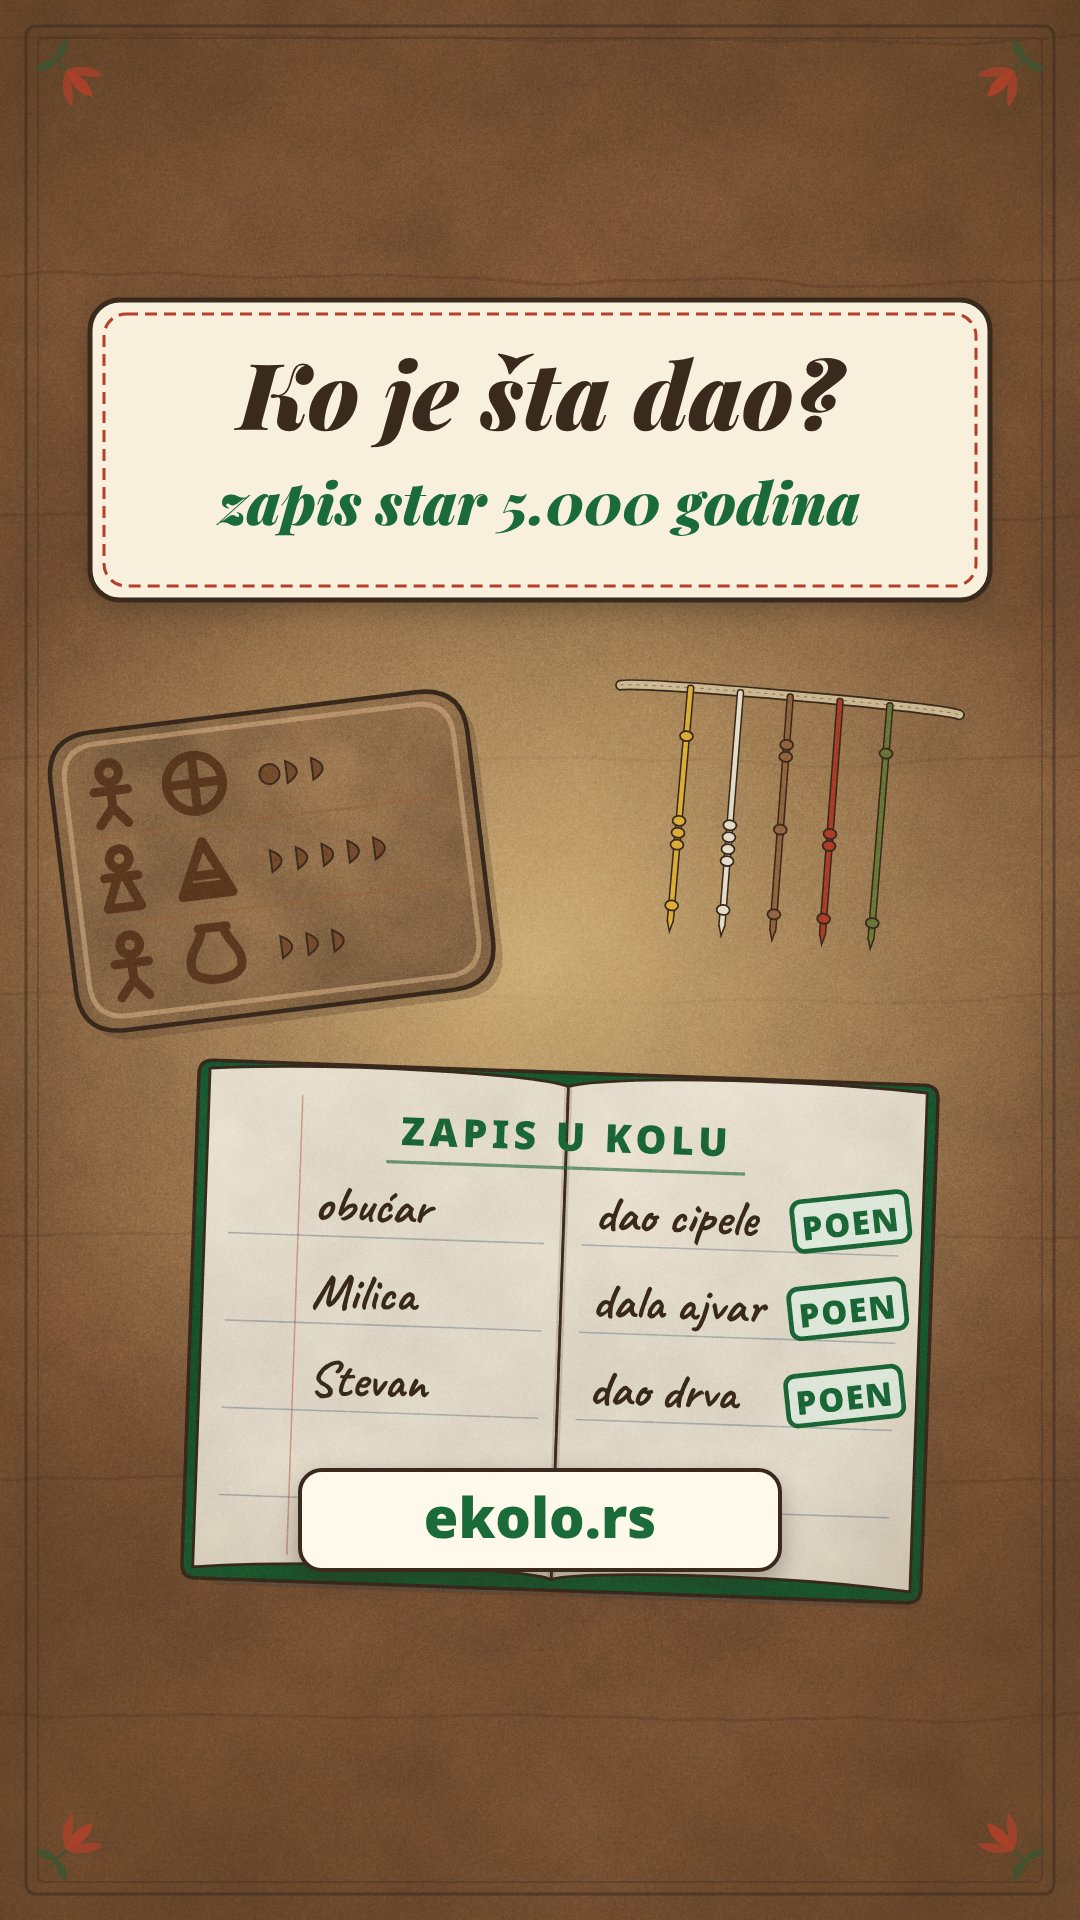
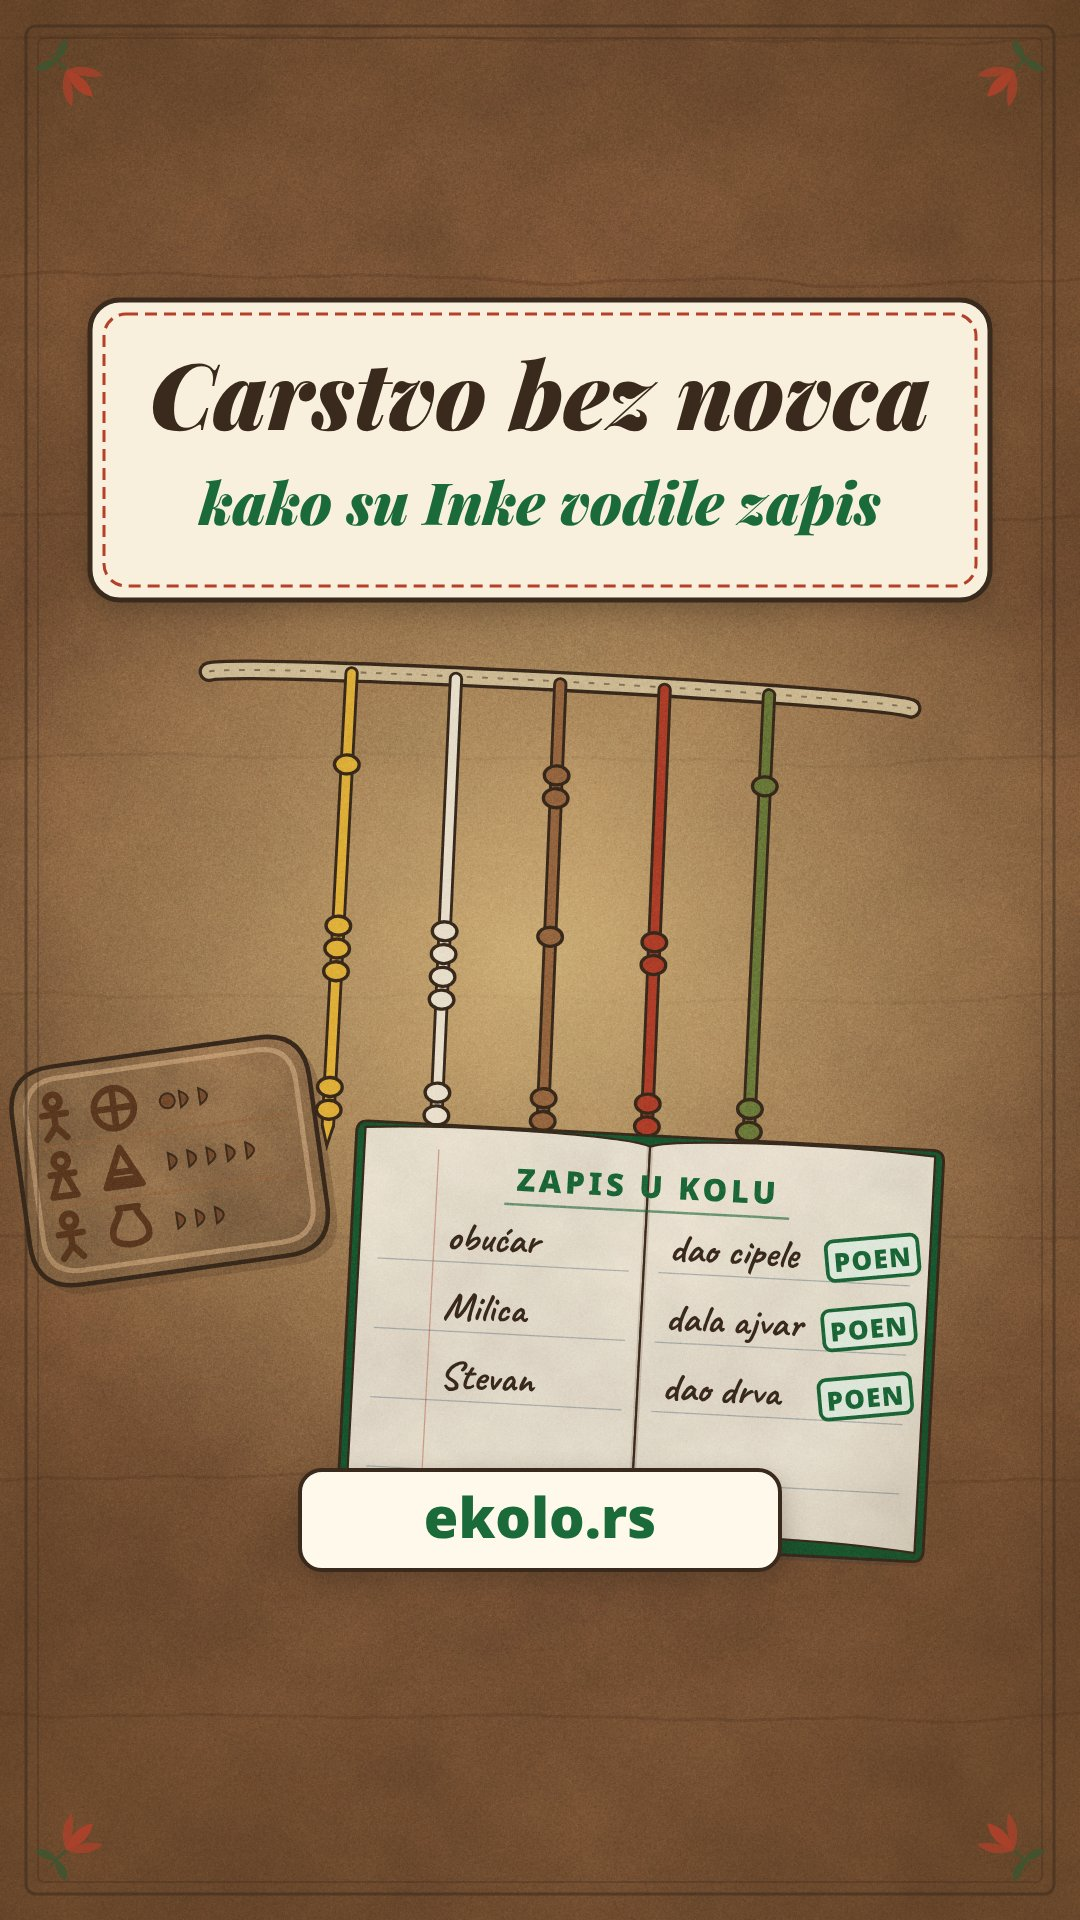
Video 17: naslovna „Carstvo bez novca / kako su Inke vodile zapis“, TikTok opis prati naslovnu (vlasnik)
Claude-Session: https://claude.ai/code/session_01Va1h1n6nXWcMqtSVBEQDo4

Changed region(s): [[0.0, 0.3438, 0.8861, 0.8438], [0.1222, 0.1875, 0.8556, 0.2812]]

diff --git a/video/kolo-stari-zapis/src/Naslovna.tsx b/video/kolo-stari-zapis/src/Naslovna.tsx
@@ -1,4 +1,5 @@
-// Naslovna (cover) za mreže: glinena pločica, kipu i zajednička sveska na stolu, krupan naslov.
+// Naslovna (cover) za mreže: „Carstvo bez novca / kako su Inke vodile zapis“ (vlasnik, 07.10.2026);
+// krupno kipu, uz njega glinena pločica i zajednička sveska na stolu.
 // Sav tekst je u sredini (y 300–1620), jer Instagram mrežu seče na 4:5.
 import React from "react";
 import { AbsoluteFill, Img, staticFile } from "remotion";
@@ -24,13 +25,13 @@ export const Naslovna: React.FC = () => (
       <g transform="translate(540 960)">
         <circle r={620} fill="url(#toplaSvetlost)" />
       </g>
-      <g transform="translate(290 1010) rotate(-7)">
-        <Plocica w={420} h={300} redovi={REDOVI_1} />
+      <g transform="translate(185 1270) rotate(-8)">
+        <Plocica w={300} h={220} redovi={REDOVI_1} />
       </g>
-      <g transform="translate(790 700) scale(0.5) rotate(5)">
-        <Kipu konci={KONCI} x0={-300} x1={300} duzina={460} />
+      <g transform="translate(560 690) scale(0.95) rotate(3)">
+        <Kipu konci={KONCI} x0={-330} x1={330} duzina={470} />
       </g>
-      <g transform="translate(560 1330) scale(0.78) rotate(2)">
+      <g transform="translate(640 1340) scale(0.62) rotate(3)">
         <Sveska kolo={1} zig={[1, 1, 1]} />
       </g>
     </Kadar>
@@ -41,10 +42,10 @@ export const Naslovna: React.FC = () => (
       <rect x={90} y={300} width={900} height={300} rx={30} fill={P.krem} stroke={P.mastilo} strokeWidth={5} />
       <rect x={104} y={314} width={872} height={272} rx={22} fill="none" stroke={P.vez} strokeWidth={3} strokeDasharray="12 7" />
       <text x={540} y={430} textAnchor="middle" fontFamily={NASLOV} fontStyle="italic" fontWeight={900} fontSize={92} fill={P.mastilo}>
-        Ko je šta dao?
+        Carstvo bez novca
       </text>
       <text x={540} y={525} textAnchor="middle" fontFamily={NASLOV} fontStyle="italic" fontWeight={900} fontSize={58} fill={P.zelena700}>
-        zapis star 5.000 godina
+        kako su Inke vodile zapis
       </text>
       <rect x={300} y={1470} width={480} height={100} rx={22} fill={P.belo} stroke={P.mastilo} strokeWidth={4} />
       <text x={540} y={1538} textAnchor="middle" fontFamily={SANS} fontWeight={900} fontSize={56} fill={P.zelena700}>
